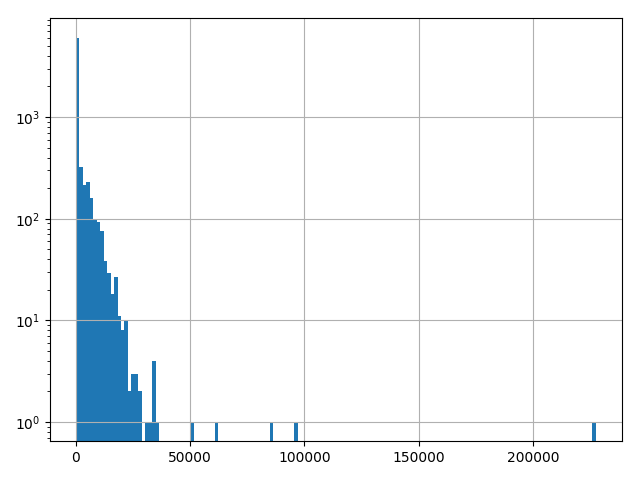
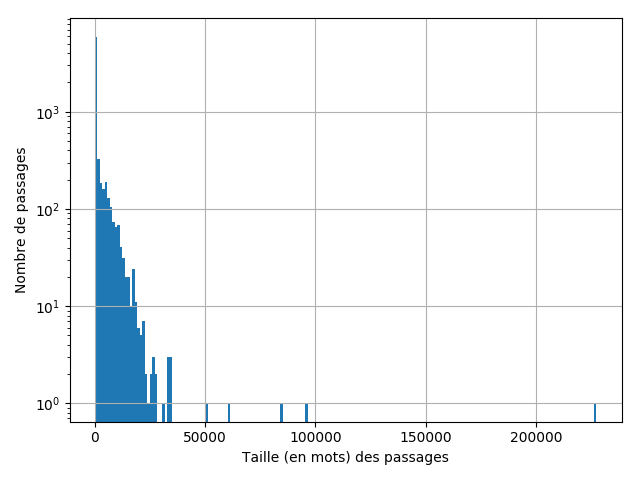
Generation des annexes

diff --git a/analysis/general_analysis/corpus_analysis.py b/analysis/general_analysis/corpus_analysis.py
@@ -2,6 +2,8 @@ from helpers.reader.curated import get_graph, get_texts, get_text_length_dict
 from pandas import Series
 from operator import itemgetter
 import matplotlib.pyplot as matplot_plot
+from MyCapytain.common.reference import URN
+from numpy import mean, median
 
 PERIODS = 25
 START, END = -300, 750
@@ -156,14 +158,15 @@ def time_analysis(graph, texts):
     return accumulated_tokens, tokens_per_year, text_per_year
 
 
-def passage_size_analysis(graph, texts_dict):
+def passage_size_analysis(texts_dict):
     # Get the violin representation
     flatten_length = [x for lengths in texts_dict.values() for x in lengths]
 
     fig, axes = matplot_plot.subplots(1, 1)
     series = Series(data=flatten_length)
-    series.hist(ax=axes, log=True, bins=150)
-    #series.plot(ax=axes, logy=True, secondary_y=True, kind="kde")
+    series.hist(ax=axes, log=True, bins=200, histtype="bar")
+    axes.set_xlabel("Taille (en mots) des passages")
+    axes.set_ylabel("Nombre de passages")
     fig.tight_layout()
     fig.savefig('results/analysis/corpus_analysis/passage_size_distribution.png')
 
@@ -171,11 +174,46 @@ def passage_size_analysis(graph, texts_dict):
 def authors_annex(graph, texts_dict):
     """ Creates a CSV file for annexes of the thesis with name of the author, number of tokens
 
-    :param graph:
+    :param graph: Graph that needs to be used for metadata
     :param texts_dict:
     :return:
     """
-
+    authors = authors_name(graph)
+    reversed_authors = {}
+    for ed_id, author in authors.items():
+        _id = URN(ed_id)
+        tg = str(_id.upTo(URN.TEXTGROUP))
+        if author not in reversed_authors:
+            reversed_authors[author] = {
+                "name": author,
+                "ids": [],
+                "texts": [],
+                "passages": [],
+                "tokens": [],
+                "tokens_notflat": []
+            }
+        reversed_authors[author]["ids"].append(tg)
+        reversed_authors[author]["texts"].append(ed_id)
+        reversed_authors[author]["passages"].append(len(texts_dict[ed_id]))
+        reversed_authors[author]["tokens"].append(sum(texts_dict[ed_id]))
+        reversed_authors[author]["tokens_notflat"] += texts_dict[ed_id]
+    with open("results/analysis/corpus_analysis/authors.csv", "w") as f:
+        f.write("\t".join(["Auteur", "Nombre de textes", "Nombre de passages", "Nombre de mots", "Médiane de taille de passage", "Moyenne de taille de passage"])+"\n")
+        for aname in sorted(list(reversed_authors.keys())):
+            f.write(
+                "\t".join([
+                    str(lmb(reversed_authors[aname][key]))
+                    for key, lmb in
+                    [
+                        ("name", lambda x: x),
+                        ("texts", lambda x: len(x)),
+                        ("passages", lambda x: sum(x)),
+                        ("tokens", lambda x: sum(x)),
+                        ("tokens_notflat", lambda x: median(x)),
+                        ("tokens_notflat", lambda x: mean(x)),
+                    ]
+                ])+"\n"
+            )
 
 def run():
     # We get the graph
@@ -188,10 +226,13 @@ def run():
     texts_dict = get_text_length_dict(texts)
 
     # Run time analysis
-    #accumulated_tokens, tokens_per_year, text_per_year = time_analysis(graph, texts_dict)
+    accumulated_tokens, tokens_per_year, text_per_year = time_analysis(graph, texts_dict)
 
     # Passage Size Analysis
-    passages_repartition = passage_size_analysis(graph, texts_dict)
+    passages_repartition = passage_size_analysis(texts_dict)
+
+    # Generation of annexes
+    authors_annexes = authors_annex(graph, texts_dict)
 
 
 if __name__ == "__main__":

diff --git a/helpers/lemmatizers/base.py b/helpers/lemmatizers/base.py
@@ -1,0 +1,34 @@
+from collections import namedtuple
+
+
+Lemma = namedtuple("Lemma", field_names=["form", "lemma", "pos", "morph"])
+
+
+class LemmatizerBase(object):
+    def load(self):
+        """ Load the lemmatizer
+        """
+        return True
+
+    def from_string(self, string):
+        """
+
+        :param string:
+        :return: List of annotated forms
+        :rtype: list of Lemma
+        """
+        return []
+
+    def from_file(self, path):
+        with open(path) as f:
+            r = self.from_string(path.read)
+        return r
+
+    @staticmethod
+    def lemma_to_string(lemma_collection):
+        """ Format a lemma collection to a string
+
+        :param lemma_collection:
+        :return:
+        """
+        return "\n".join(["\t".join(val for val in token) for token in lemma_collection])

diff --git a/cli.py b/cli.py
@@ -5,7 +5,7 @@ from helpers.printing import TASK_SEPARATOR
 import helpers.metadata
 import analysis.general_analysis.corpus_analysis
 import glob
-import shutil
+import os
 
 
 @click.group()
@@ -62,7 +62,7 @@ def clear_cache():
     files = glob.glob(".pickle_dir/*.pickle")
     print(TASK_SEPARATOR+"Deleting {} pickle files".format(len(files)))
     for file in files:
-        shutil.rmtree(file)
+        os.remove(file)
 
 
 if __name__ == "__main__":
